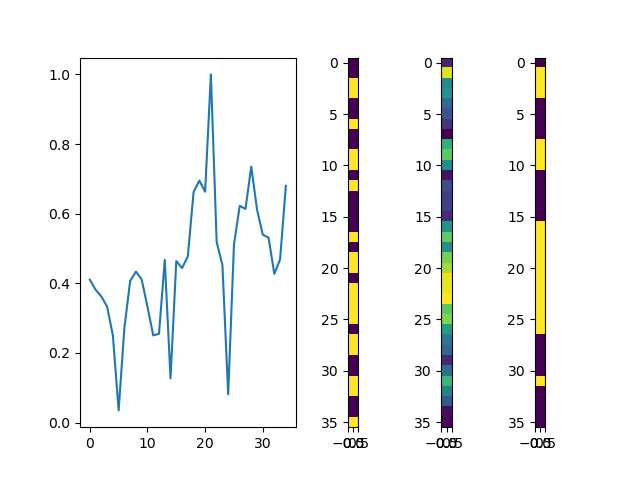
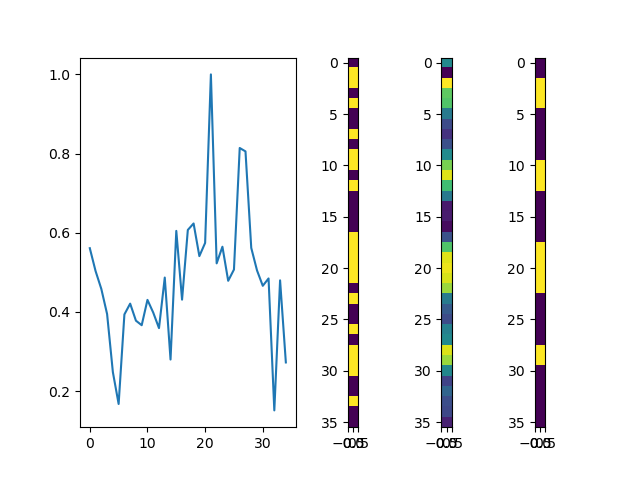
laplacian filter

diff --git a/1d/peaks_to_slot/constant_power/peaks_to_slots_model.py b/1d/peaks_to_slot/constant_power/peaks_to_slots_model.py
@@ -2,6 +2,7 @@ import numpy as np
 import tensorflow as tf
 import tensorflow_probability as tfp
 from tensorflow.keras.layers import Dense, Dropout, BatchNormalization, ReLU, Flatten, LeakyReLU, Conv1DTranspose
+import tensorflow_io as tfio
 
 
 class LWAPredictionModel(tf.keras.Model):
@@ -10,7 +11,7 @@ class LWAPredictionModel(tf.keras.Model):
 
         self.adam_optimizer = tf.keras.optimizers.Adam(learning_rate=lr)
         self.batch_size = 64
-        self.epochs = 40
+        self.epochs = 20
 
         self.dense_layers = tf.keras.Sequential()
         # self.dense_layers.add(Dense(1000, activation = 'relu'))
@@ -68,20 +69,18 @@ class LWAPredictionModel(tf.keras.Model):
 
         # print(prediction)
         bce = tf.keras.losses.BinaryCrossentropy()
-        bce_exp = tf.keras.losses.BinaryCrossentropy()
-        bce_exp2 = tf.keras.losses.BinaryCrossentropy()
+        bce_laplacian = tf.keras.losses.BinaryCrossentropy()
+        # bce_exp2 = tf.keras.losses.BinaryCrossentropy()
 
-        pred_exp = tf.cast(tf.expand_dims(prediction, 2),tf.float32)
-        true_exp = tf.cast(tf.expand_dims(true, 2),tf.float32)
+        true_laplacian = tfio.experimental.filter.laplacian(tf.cast(tf.reshape(true, [-1,1,36,1]),tf.float32), ksize = [1,3])
+        pred_laplacian = tfio.experimental.filter.laplacian(tf.round(tf.cast(tf.reshape(prediction, [-1,1,36,1]),tf.float32)), ksize = [1,3])
 
-        pred_pooled = tf.nn.pool(pred_exp,(2,),'AVG',(2,))
-        true_pooled = tf.nn.pool(true_exp,(2,),'AVG',(2,))
 
-        pred_pooled_2 = tf.nn.pool(pred_pooled,(2,),'AVG',(2,))
-        true_pooled_2 = tf.nn.pool(true_pooled,(2,),'AVG',(2,))
+        # tf_data.shape
+        # plt.imshow(tf.reshape(tfio.experimental.filter.laplacian(tf.cast(tf_data,tf.float32), ksize=[1,3]),[36,1]),cmap='YlGnBu')
 
-        return bce(true,prediction) + 0.5*bce_exp(true_pooled, pred_pooled) + (0*bce_exp2(true_pooled_2, pred_pooled_2))
-        # return bce(true,prediction)
+        # return bce(true,prediction) + 0.5*bce_exp(true_pooled, pred_pooled) + (0*bce_exp2(true_pooled_2, pred_pooled_2))
+        return bce(true,prediction) + bce_laplacian(true_laplacian, pred_laplacian)
 
     def accuracy(self, prediction, true):
         ba = tf.keras.metrics.BinaryAccuracy()
